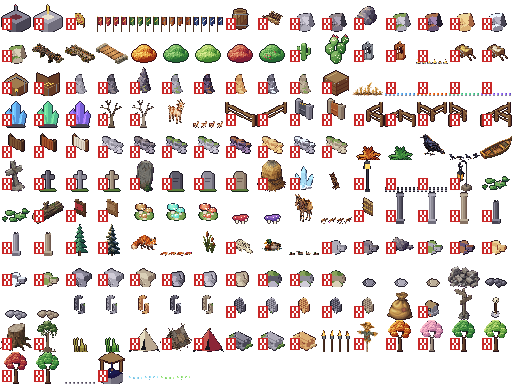
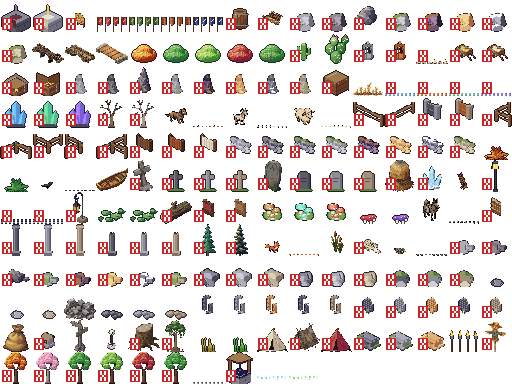
fix(tactics-world): the merged animals are in the scene, and the props palette follows the manifest

Changed region(s): [[0.0, 0.25, 1.0, 1.0], [0.0, 0.6875, 0.0625, 0.75]]

diff --git a/tools/tactics-world/addons/region_tools/Commands.cs b/tools/tactics-world/addons/region_tools/Commands.cs
@@ -17,6 +17,7 @@ public partial class Commands : Node
           --new=<id>               make an empty region scene in regions/; --chapter=<n> --size=<w>x<h> --name=<name> are optional
           --export=<id or scene>   export a region; --rules=<folder> writes to that pack instead of the base pack
           --remap-props=<id>       remap a scene's prop atlas after a rebuild; requires --old-props=<manifest>; repeat --replace-prop=old@variant=new@variant to change painted variants
+          --edit-props=<id>        change single props in a scene and leave its paint alone; repeat --clear-prop=<x>,<y> and --place-prop=<id>@<variant>@<x>,<y>
           --swatches               write the palette's images (then run Godot's --import)
           --tilesets               write the palette's tile sets
           --sample=<scene>         write a small test scene with a stamp; --map=<id> picks the map, --tamper paints over a stamped tile
@@ -58,6 +59,8 @@ public partial class Commands : Node
             return Export(export);
         if (Arg("remap-props") is { } remap)
             return RemapProps(remap);
+        if (Arg("edit-props") is { } edit)
+            return EditProps(edit);
         if (Arg("draft") is { } draft)
             return DraftScene.Run(draft);
         if (Arg("dress") is { } dress)
@@ -91,6 +94,56 @@ public partial class Commands : Node
             GD.Print($"PROBLEM: {problem}");
         GD.Print(result.Status);
         return result.Written is null ? 1 : 0;
+    }
+
+    private static int EditProps(string idOrPath)
+    {
+        var path = RegionPaths.Scene(idOrPath);
+        if (ResourceLoader.Load<PackedScene>(path)?.Instantiate() is not Region root)
+        {
+            GD.PrintErr($"{path} isn't a region scene.");
+            return 2;
+        }
+        try
+        {
+            var layer = root.GetNodeOrNull<TileMapLayer>(RegionScene.PropsLayer);
+            if (layer is null)
+            {
+                GD.PrintErr($"{path} has no Props layer.");
+                return 2;
+            }
+            var args = OS.GetCmdlineUserArgs();
+            foreach (var value in args.Where(a => a.StartsWith("--clear-prop=", StringComparison.Ordinal)))
+                layer.EraseCell(ParseCell(value["--clear-prop=".Length..]));
+            foreach (var value in args.Where(a => a.StartsWith("--place-prop=", StringComparison.Ordinal)))
+            {
+                var cut = value.LastIndexOf('@');
+                var (id, variant) = ParsePropKey(value["--place-prop=".Length..cut]);
+                var (x, y) = PaletteBuilder.PropAtlas(id, variant);
+                layer.SetCell(ParseCell(value[(cut + 1)..]), 0, new Vector2I(x, y));
+            }
+            var packed = new PackedScene();
+            var error = packed.Pack(root);
+            if (error == Error.Ok)
+                error = ResourceSaver.Save(packed, path);
+            if (error != Error.Ok)
+            {
+                GD.PrintErr($"Couldn't save {path}: {error}.");
+                return 2;
+            }
+            GD.Print($"{path} now has {layer.GetUsedCells().Count} prop cells.");
+            return 0;
+        }
+        finally
+        {
+            root.Free();
+        }
+    }
+
+    private static Vector2I ParseCell(string value)
+    {
+        var parts = value.Split(',', 2);
+        return new Vector2I(int.Parse(parts[0]), int.Parse(parts[1]));
     }
 
     private static int RemapProps(string idOrPath)

diff --git a/games/Tactics/Tactics.WorldTools/AshenFordDraft.cs b/games/Tactics/Tactics.WorldTools/AshenFordDraft.cs
@@ -246,7 +246,9 @@ public static class AshenFordDraft
             (35, 11), (45, 18), (36, 26), (44, 30), (18, 39), (24, 34), (31, 38), (36, 36), (44, 40),
             (17, 87), (28, 86), (34, 88), (39, 90), (43, 90), (49, 84),
             (36, 100), (40, 100), (44, 100), (36, 105), (40, 105), (44, 105)),                         // grain left standing in short, open rows
-        new("farm_goat", "rust", (22, 83), (46, 89)),                                                   // two quiet goats in separate enclosed fields
+        new("farm_goat", "rust", (22, 83), (45, 89)),                                                   // two quiet goats in separate enclosed fields
+        new("farm_dog", "brown", (52, 26)),                                                            // the reeve's dog, by the steading
+        new("farm_sheep", "cream", (24, 89), (27, 90)),                                                // a few sheep on what the goats left
         new("pack_mule", "grey", (50, 23)),                                                            // grain panniers beside the cart at Long Acre's gate
         new("cart", "hay", (48, 23)),
         new("well", "stone", (30, 89)),
